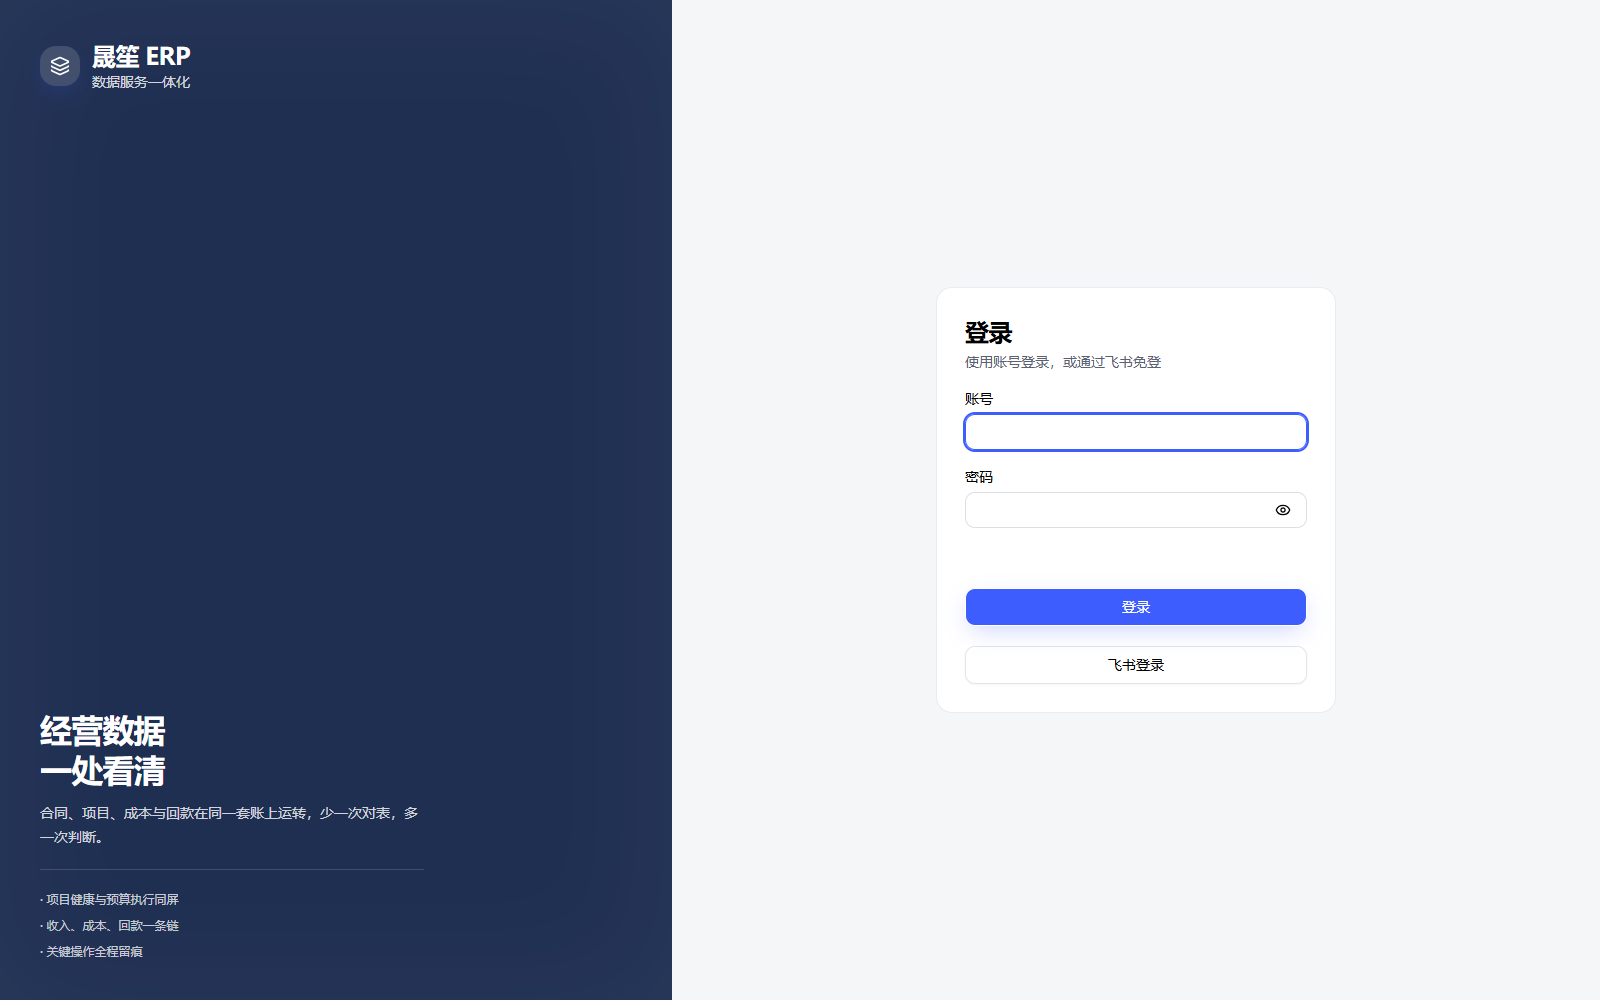
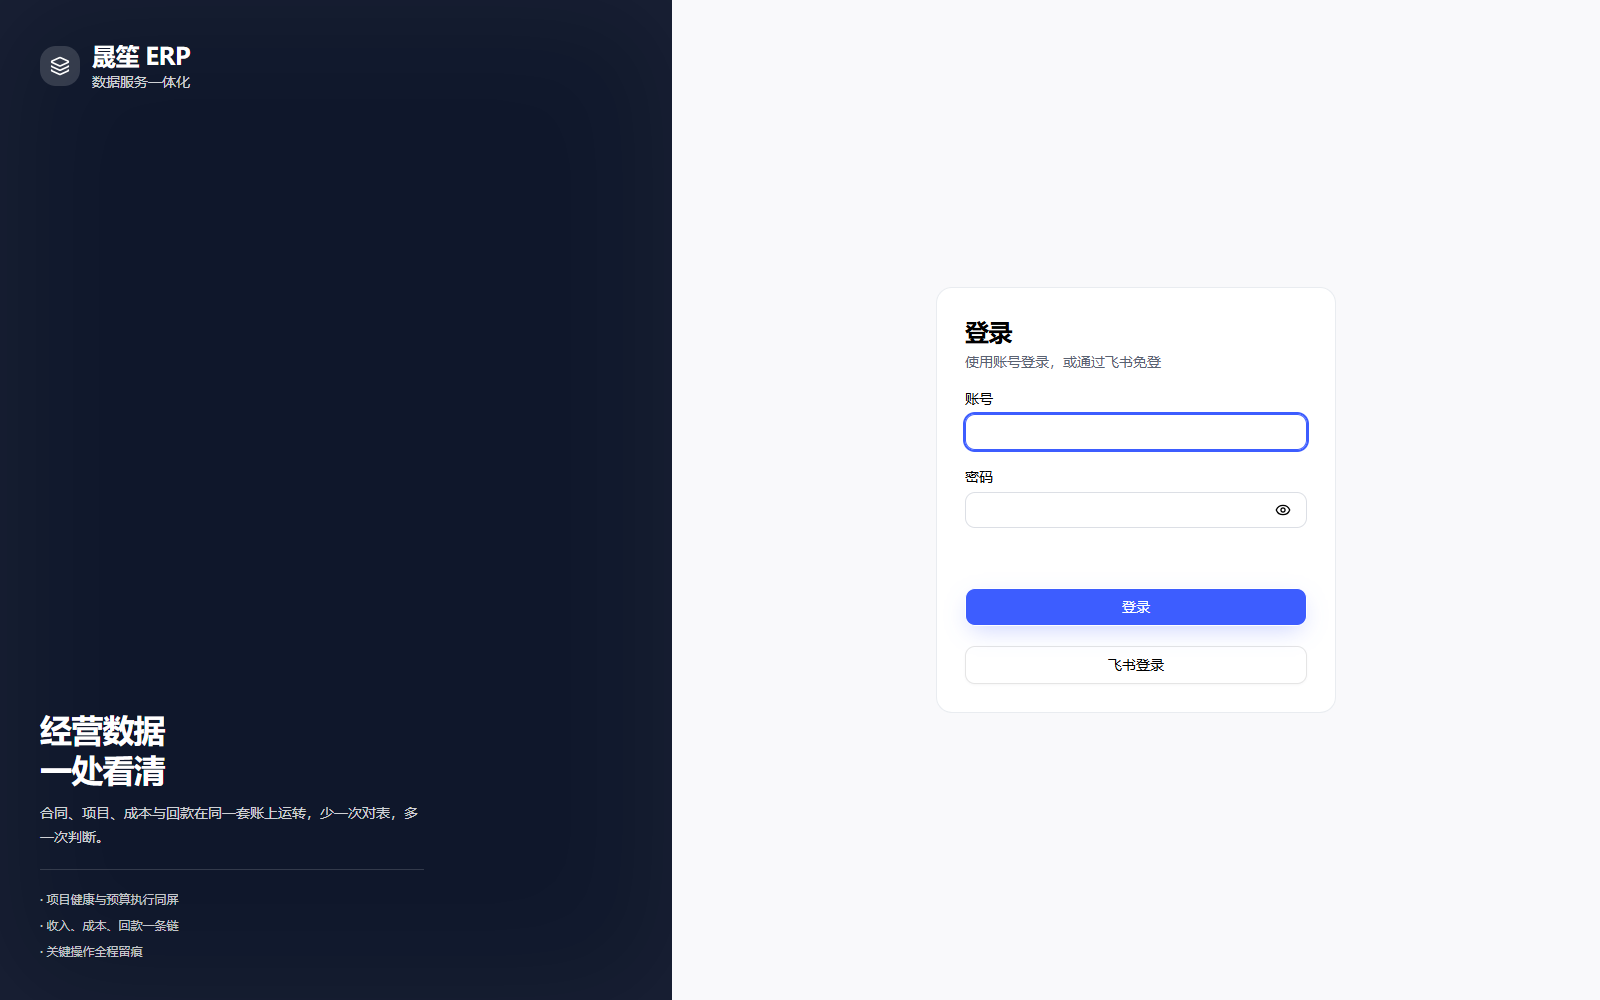
feat(ui): 登录页品牌区抽离与最终视觉收口

diff --git a/client/src/pages/login/LoginPage.tsx b/client/src/pages/login/LoginPage.tsx
@@ -1,11 +1,12 @@
 import { FormEvent, useEffect, useState } from 'react';
 import { useSearchParams } from 'react-router-dom';
-import { Eye, EyeOff, Layers, Loader2 } from 'lucide-react';
+import { Eye, EyeOff, Loader2 } from 'lucide-react';
 import { Button } from '@client/src/components/ui/button';
 import { Input } from '@client/src/components/ui/input';
 import { Label } from '@client/src/components/ui/label';
 import { settingsApi } from '@client/src/api';
 import PasswordExpiredForm from './components/PasswordExpiredForm';
+import LoginBrandPanel from './components/LoginBrandPanel';
 import { withBasePath } from '@client/src/utils/base-path';
 
 /**
@@ -262,51 +263,8 @@ export default function LoginPage() {
   };
 
   return (
-    <div className="grid min-h-screen bg-[#f5f6f8] md:grid-cols-[minmax(360px,42%)_1fr]">
-      <section className="relative hidden flex-col justify-between overflow-hidden bg-[#1f2f52] p-10 text-primary-foreground md:flex">
-        <div
-          className="pointer-events-none absolute inset-0 opacity-40"
-          style={{ boxShadow: 'inset 0 0 120px rgba(255,255,255,.12)' }}
-          aria-hidden="true"
-        />
-        <div className="relative flex items-center gap-3">
-          <span className="flex size-10 items-center justify-center overflow-hidden rounded-xl bg-primary-foreground/15 shadow-brand">
-            {logoUrl ? (
-              <img src={logoUrl} alt="" className="size-10 object-contain" />
-            ) : (
-              <Layers className="size-5" aria-hidden="true" />
-            )}
-          </span>
-          <div>
-            {/*
-              ⚠ 字号对齐 `PageShell` 的规范值 `text-2xl tracking-tight`。
-              原来是 `text-[22px] leading-tight` —— 与全站页面标题差 2px，
-              且"规范可 grep 验证"这件事会失效（按 `text-2xl` 搜会得出
-              "没有一个页面符合规范"的错误结论，见 `PageShell.tsx` 里 P2-4 的同一段论证）。
-              登录页是使用者的第一屏，更该与内页一致。
-            */}
-            <p className="text-2xl font-semibold tracking-tight">{brandName}</p>
-            <p className="text-sm text-primary-foreground/80">数据服务一体化</p>
-          </div>
-        </div>
-        <div className="relative max-w-sm space-y-5">
-          <div className="space-y-3">
-            <h2 className="text-[32px] font-semibold leading-[1.25] tracking-tight">
-              经营数据
-              <br />
-              一处看清
-            </h2>
-            <p className="text-sm leading-6 text-primary-foreground/80">
-              合同、项目、成本与回款在同一套账上运转，少一次对表，多一次判断。
-            </p>
-          </div>
-          <div className="space-y-2 border-t border-primary-foreground/15 pt-5 text-[12px] text-primary-foreground/75">
-            <p>· 项目健康与预算执行同屏</p>
-            <p>· 收入、成本、回款一条链</p>
-            <p>· 关键操作全程留痕</p>
-          </div>
-        </div>
-      </section>
+    <div className="grid min-h-screen bg-background md:grid-cols-[minmax(360px,42%)_1fr]">
+      <LoginBrandPanel brandName={brandName} logoUrl={logoUrl} />
       <div className="flex items-center justify-center p-8">
         <form
           className="w-full max-w-[400px] space-y-5 rounded-2xl border border-border/80 bg-card p-7"
@@ -510,6 +468,8 @@ export default function LoginPage() {
     </div>
   );
 }
+
+
 
 
 

diff --git a/client/src/pages/login/components/LoginBrandPanel.tsx b/client/src/pages/login/components/LoginBrandPanel.tsx
@@ -1,0 +1,52 @@
+import { Layers } from 'lucide-react';
+
+interface LoginBrandPanelProps {
+  brandName: string;
+  logoUrl: string | null;
+}
+
+/** 登录页左侧品牌说明区；从 LoginPage 抽出以守住 500 行门槛。 */
+export default function LoginBrandPanel({
+  brandName,
+  logoUrl,
+}: LoginBrandPanelProps) {
+  return (
+    <section className="relative hidden flex-col justify-between overflow-hidden bg-slate-900 p-10 text-primary-foreground md:flex">
+      <div
+        className="pointer-events-none absolute inset-0 opacity-40"
+        style={{ boxShadow: 'inset 0 0 120px rgba(255,255,255,.12)' }}
+        aria-hidden="true"
+      />
+      <div className="relative flex items-center gap-3">
+        <span className="flex size-10 items-center justify-center overflow-hidden rounded-xl bg-primary-foreground/15">
+          {logoUrl ? (
+            <img src={logoUrl} alt="" className="size-10 object-contain" />
+          ) : (
+            <Layers className="size-5" aria-hidden="true" />
+          )}
+        </span>
+        <div>
+          <p className="text-2xl font-semibold tracking-tight">{brandName}</p>
+          <p className="text-sm text-primary-foreground/80">数据服务一体化</p>
+        </div>
+      </div>
+      <div className="relative max-w-sm space-y-5">
+        <div className="space-y-3">
+          <h2 className="text-[32px] font-semibold leading-[1.25] tracking-tight">
+            经营数据
+            <br />
+            一处看清
+          </h2>
+          <p className="text-sm leading-6 text-primary-foreground/80">
+            合同、项目、成本与回款在同一套账上运转，少一次对表，多一次判断。
+          </p>
+        </div>
+        <div className="space-y-2 border-t border-primary-foreground/15 pt-5 text-[12px] text-primary-foreground/75">
+          <p>· 项目健康与预算执行同屏</p>
+          <p>· 收入、成本、回款一条链</p>
+          <p>· 关键操作全程留痕</p>
+        </div>
+      </div>
+    </section>
+  );
+}
